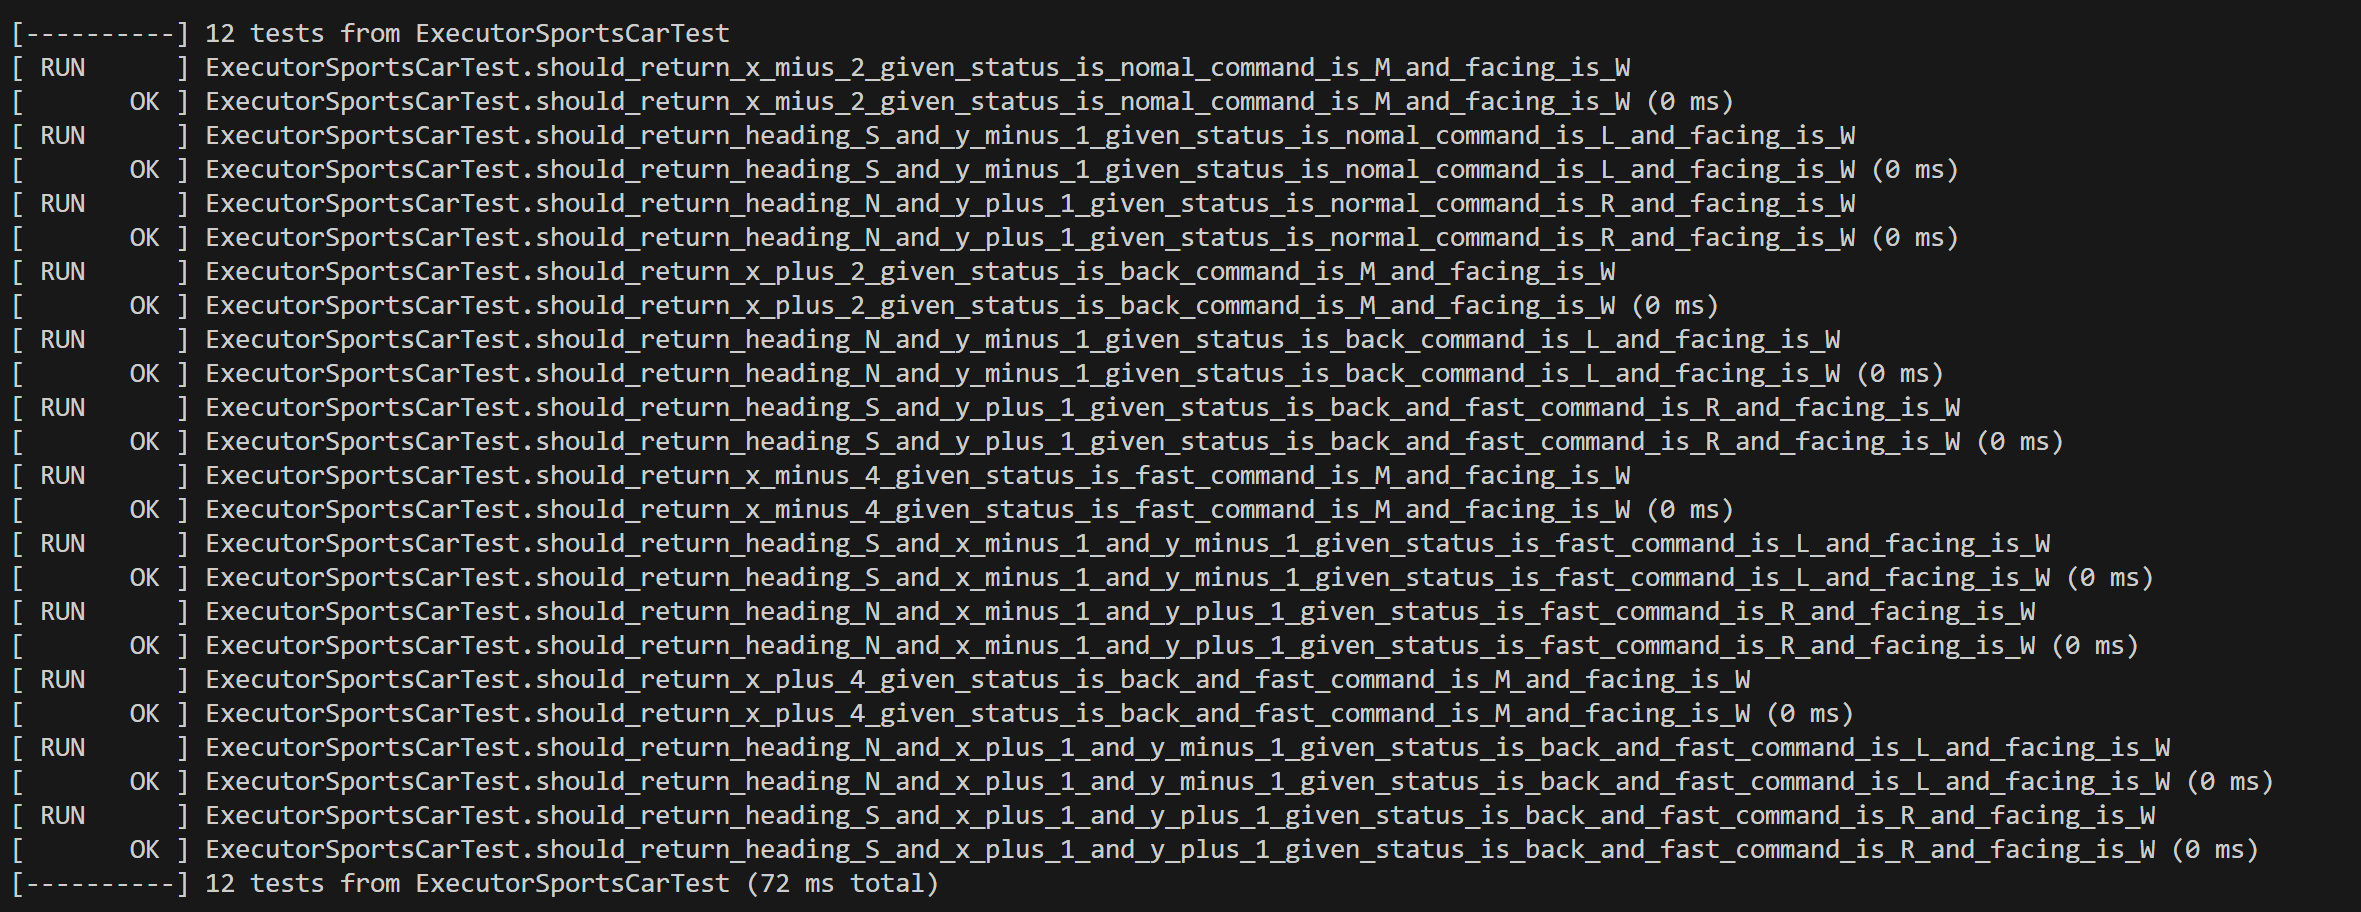
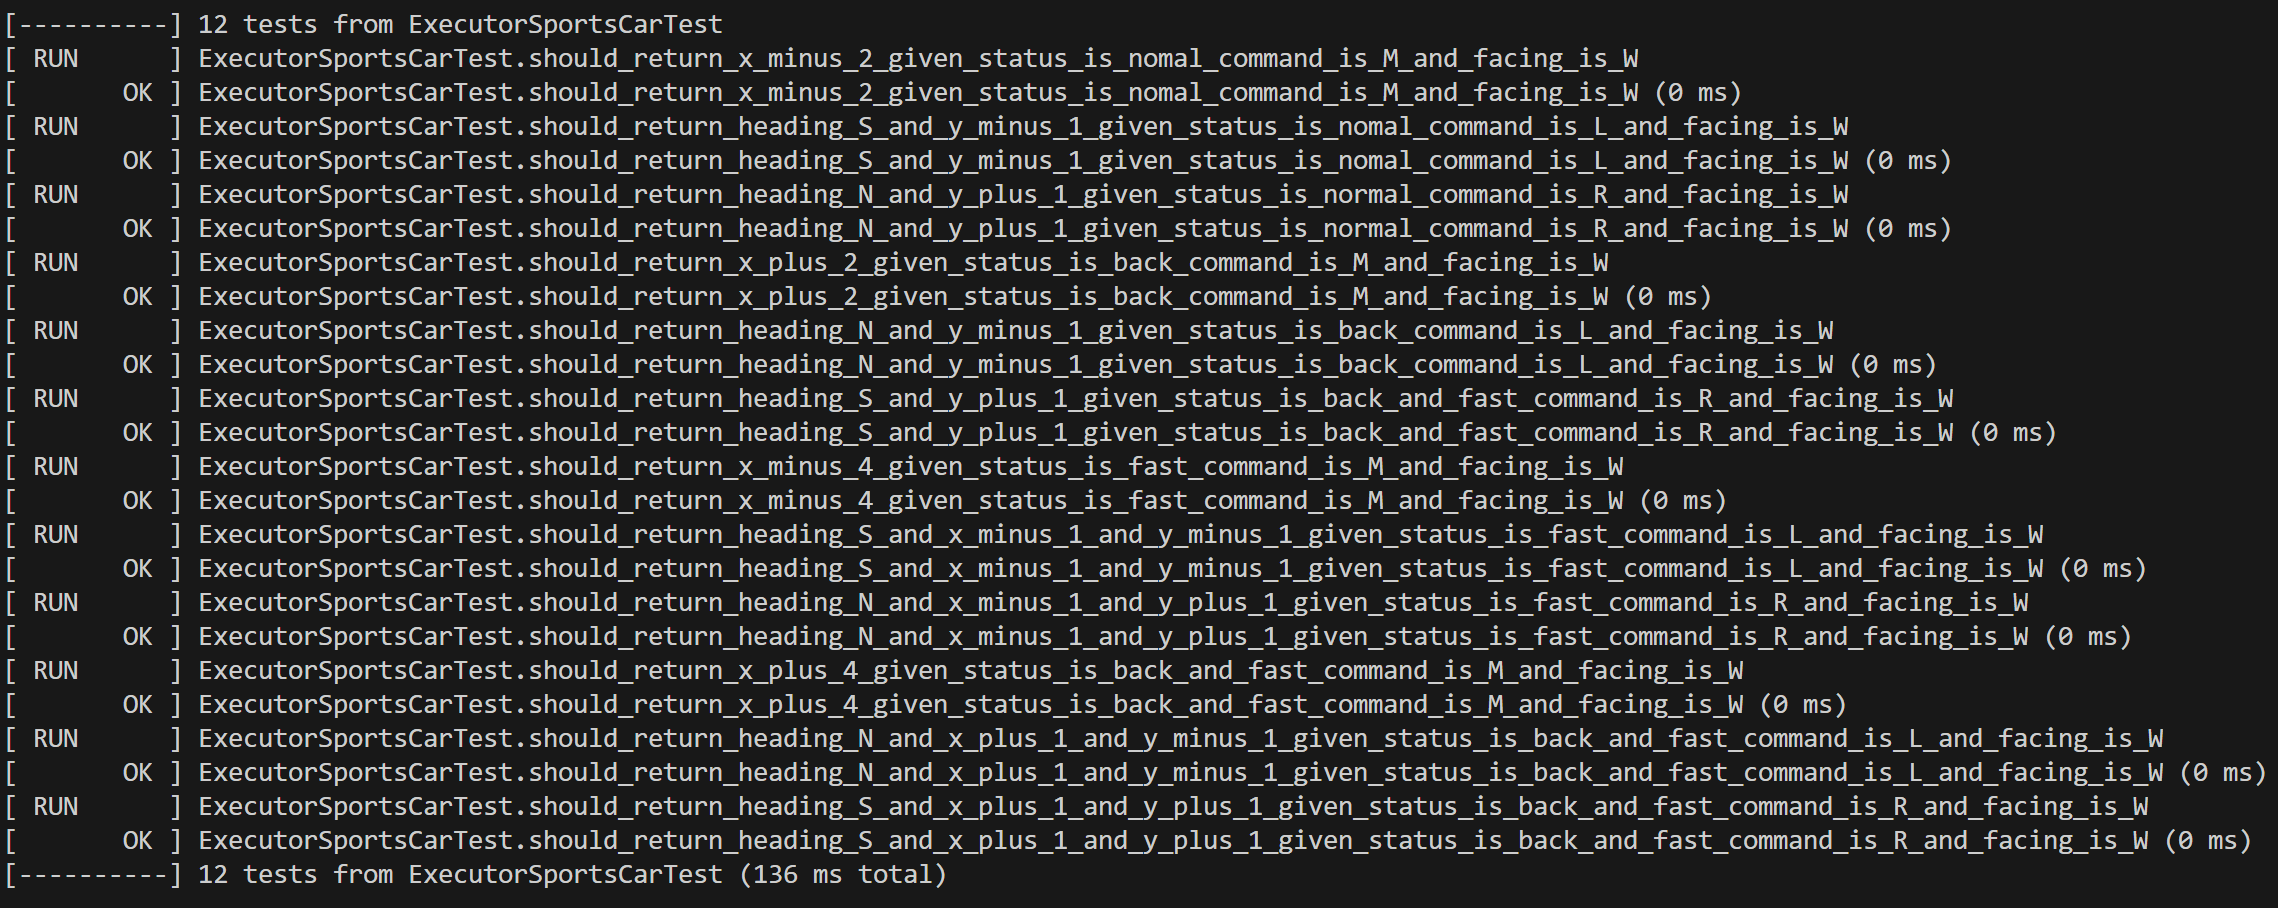
bus and sportscar

Changed region(s): [[0.0, 0.0, 0.9974, 0.9868], [0.0, 0.9559, 0.0312, 0.9868]]

diff --git a/cpp_project_1/cpp-training/tests/ExecutorSportsCarTest.cpp b/cpp_project_1/cpp-training/tests/ExecutorSportsCarTest.cpp
@@ -6,7 +6,7 @@ namespace adas
 {
 //正常状态测试
 //M测试
-TEST(ExecutorSportsCarTest,should_return_x_mius_2_given_status_is_nomal_command_is_M_and_facing_is_W)
+TEST(ExecutorSportsCarTest,should_return_x_minus_2_given_status_is_nomal_command_is_M_and_facing_is_W)
 {
     std::unique_ptr<Executor> executor(Executor::CreateExecutor({0, 0, 'W'},VehicleType::SportsCar));
     executor->DoCommand("M");

diff --git a/cpp_project_1/cpp-training/tests/ExecutorBusTest.cpp b/cpp_project_1/cpp-training/tests/ExecutorBusTest.cpp
@@ -6,7 +6,7 @@ namespace adas
 {
 //正常状态测试
 //M测试
-TEST(ExecutorBusTest,should_return_x_mius_1_given_status_is_nomal_command_is_M_and_facing_is_W)
+TEST(ExecutorBusTest,should_return_x_minus_1_given_status_is_nomal_command_is_M_and_facing_is_W)
 {
     std::unique_ptr<Executor> executor(Executor::CreateExecutor({0, 0, 'W'},VehicleType::Bus));
     executor->DoCommand("M");
